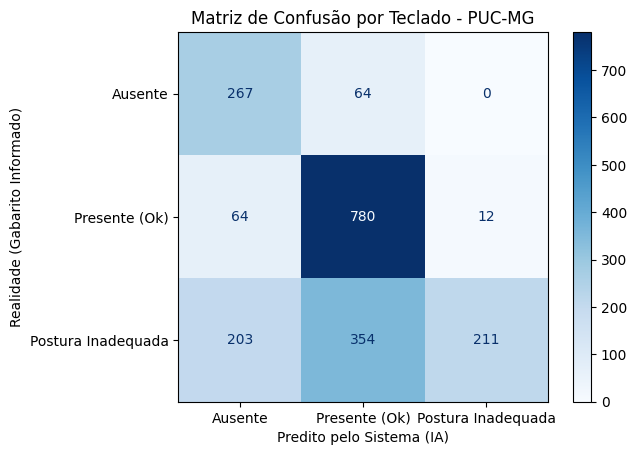
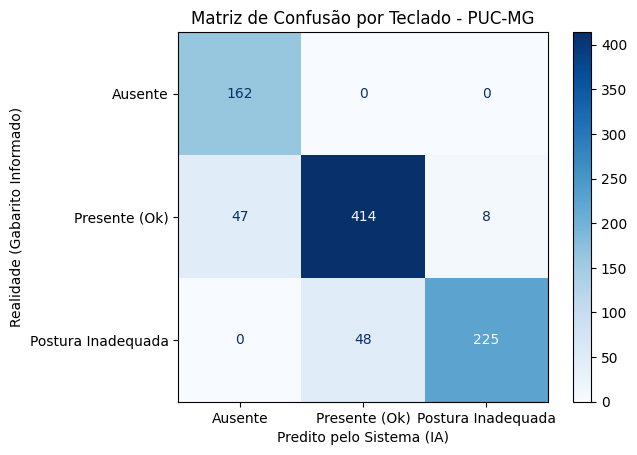
Ajustes finais no README.md

diff --git a/README.md b/README.md
@@ -1,4 +1,20 @@
-# Sistema de Monitoramento Ergonômico em Tempo Real (PUC-MG)
+# Sistema de Monitoramento Ergonômico em Tempo Real
+
+`PPC-CC: PUC Poços de Caldas - Ciência da Computação`
+`Disciplina: Visão Computacional e Realidade Misturada`
+`2021 - Semestre 1`
+
+## Integrantes
+
+- Gabriel Henrique Custodio
+- João Eduardo Lino Quinteiro
+- Vitor Hugo Granato Moreira do Prado
+
+## Professor
+
+- Will Ricardo dos Santos Machado
+
+## Objetivo
 
 Este projeto consiste em um sistema inteligente de monitoramento postural e de presença utilizando Visão Computacional. Através da biblioteca **MediaPipe (Pose Landmarker)** e **OpenCV**, o sistema analisa a estrutura corporal do usuário em tempo real via webcam para identificar desvios ergonômicos comuns e acompanhar o tempo de foco do usuário.
 
@@ -10,7 +26,7 @@ O sistema também conta com uma ferramenta de validação analítica (Gabarito v
 
 * **Detecção Automática de Presença/Ausência:** Identifica se o usuário está em frente ao PC ou se a cadeira está vazia.
 * **Calibração Anatômica Inicial:** Nos primeiros 30 frames, o sistema calcula uma média móvel da postura do usuário para adaptar os limites à sua anatomia e distância da câmera.
-* **Filtro de Ruído Temporal (Delay de 5s):** Evita falsos positivos. Movimentos rápidos e naturais (como pegar uma garrafa de água ou se coçar) deixam o HUD em estado de *Aviso (Laranja)*. O alerta de *Postura Inadequada (Vermelho)* só é validado se o usuário permanecer na posição incorreta por mais de 5 segundos seguidos.
+* **Filtro de Ruído Temporal (Delay de 5s):** Evita falsos positivos. Movimentos rápidos e naturais (como pegar uma garrafa de água ou se coçar) deixam o HUD em estado de *Aviso (Laranja)*. O alerta de *Postura Inadequada (Vermelho)* só é validado se o usuário permanecer na posição incorreta por mais de 3 segundos seguidos.
 * **Análise Ergonômica:**
     * Postura Corcunda (baseada na distância proporcional entre ombros e olhos).
     * Tronco muito baixo (aproximação excessiva da tela).